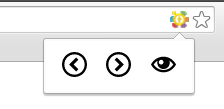
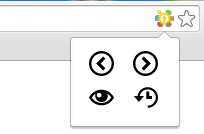
feat(fulltime): add new 'fulltime' feature
New magical button

diff --git a/action/fullTime.js b/action/fullTime.js
@@ -1,0 +1,119 @@
+(function () {
+    'use strict';
+
+    /**
+     * Change the visibility and fix the value of the element 'input'
+     *
+     * @param {Object} input HTML element 'input'
+     */
+    function fixValue(input) {
+        // if the visibility of the input does need to be modified
+        if (input.disabled || input.readOnly || input.style.border) {
+            input.disabled = false;
+            input.readOnly = false;
+            input.removeAttribute('style');
+        }
+        // if the visibility of the input does not need to be modified
+        else if (!input.classList.contains('already-enabled')) {
+            input.classList.add('already-enabled');
+        }
+        input.classList.add('fix-field');
+        input.value = 100;
+    }
+
+    /**
+     * Reset element 'input' value and state
+     *
+     * @param {Object} input HTML element 'input'
+     */
+    function resetValue(input) {
+        // if the field is visible
+        if (!input.readOnly) {
+            // if the visibility of the input has not been modified or if the input does need to be modified
+            if (input.classList.contains('fix-field') && !input.classList.contains('already-enabled')) {
+                input.readOnly = true;
+                input.disabled = true;
+                input.style.display = 'none';
+            }
+            input.value = null;
+        }
+    }
+
+    /**
+     * Apply callback on each element 'input' of the line
+     *
+     * @param {Object}   cell     Cell HTML element
+     * @param {Function} callback Action call on each element 'input'
+     */
+    function action(cell, callback) {
+        // find line
+        var line = cell.parentNode.parentNode.parentNode.parentNode.parentNode;
+
+        // find all input type 'text' in the line
+        var inputs = line.querySelectorAll('input[type="text"]');
+
+        // apply change
+        for (var i = 0; i < 5; i++) {
+            callback(inputs[i]);
+        }
+    }
+
+    /**
+     * Create and append button to the cell
+     *
+     * @param {Object}   cell     Cell HTML element
+     * @param {String}   btnClass Class to add on the button
+     * @param {String}   btnText  Text to add to the button
+     * @param {Function} callback Action call on each element 'input' relate of the button action
+     */
+    function appendActionButton(cell, btnClass, btnText, callback) {
+
+        // create 'fulltime' button
+        var btn = document.createElement('button');
+        btn.classList.add(btnClass);
+        btn.innerText = btnText;
+
+        // add 'fulltime' button event
+        btn.addEventListener('click', function () {
+            action(cell, callback);
+        }, true);
+
+        // append 'fulltime' button
+        cell.appendChild(btn);
+    }
+
+    /**
+     * Build actions buttons
+     *
+     * @param {Object} rootElement Significative HTML element (td)
+     */
+    function buildActionsButtons(rootElement) {
+
+        // extract row
+        var row = rootElement.parentNode;
+
+        // try to find 'fulltime' button
+        var cell = row.querySelector('.fulltime-zone');
+        if (!cell) {
+
+            // create cell
+            cell = document.createElement('td');
+            cell.classList.add('fulltime-zone');
+
+            // append cell to row
+            row.insertBefore(cell, row.lastChild);
+
+            // append 'full time' button
+            appendActionButton(cell, 'btn-fulltime', '100', fixValue);
+
+            // append 'full time reset' button
+            appendActionButton(cell, 'btn-fulltime-reset', 'reset', resetValue);
+        }
+    }
+
+    /**
+     * Find significative HTML element and build action buttons
+     */
+    Array.prototype.forEach.call(document.querySelectorAll('#sactScrollTblBody>tbody>tr>td:nth-child(2)>table>tbody>tr>td:nth-child(5)'), buildActionsButtons);
+
+})();

diff --git a/menu-bar/popup.html b/menu-bar/popup.html
@@ -26,6 +26,12 @@
                 <use xlink:href="#icon-eye"></use>
             </svg>
         </button>
+        <button id="zenhacker-kelio-fulltime" class="btn" title="Full time">
+            <!-- Show all -->
+            <svg class="icon icon-history" width="25" height="25">
+                <use xlink:href="#icon-history"></use>
+            </svg>
+        </button>
     </div>
 
     <script src="popup.js"></script>
@@ -46,6 +52,10 @@
                 <title>circle-left</title>
                 <path class="path1" d="M512 1024c282.77 0 512-229.23 512-512s-229.23-512-512-512-512 229.23-512 512 229.23 512 512 512zM512 96c229.75 0 416 186.25 416 416s-186.25 416-416 416-416-186.25-416-416 186.25-416 416-416z"></path>
                 <path class="path2" d="M669.256 317.256l-90.512-90.512-285.254 285.256 285.256 285.254 90.508-90.508-194.744-194.746z"></path>
+            </symbol>
+            <symbol id="icon-history" viewBox="0 0 1088 1024">
+                <title>history</title>
+                <path class="path1" d="M640 64c247.424 0 448 200.576 448 448s-200.576 448-448 448v-96c94.024 0 182.418-36.614 248.902-103.098s103.098-154.878 103.098-248.902c0-94.022-36.614-182.418-103.098-248.902s-154.878-103.098-248.902-103.098c-94.022 0-182.418 36.614-248.902 103.098-51.14 51.138-84.582 115.246-97.306 184.902h186.208l-224 256-224-256h164.57c31.060-217.102 217.738-384 443.43-384zM832 448v128h-256v-320h128v192z"></path>
             </symbol>
         </defs>
     </svg>

diff --git a/menu-bar/popup.js b/menu-bar/popup.js
@@ -28,4 +28,7 @@
     // Action 'PrevWeek'
     registerAction('zenhacker-kelio-prev-week', 'action/prevWeek.js');
 
+    // Action 'FullTime'
+    registerAction('zenhacker-kelio-fulltime', 'action/fullTime.js');
+
 })();

diff --git a/action/showAll.js b/action/showAll.js
@@ -7,6 +7,7 @@
         input.readOnly = false;
         input.disabled = false;
         input.removeAttribute('style');
+        input.classList.remove('fix-field');
     });
 
 })();

diff --git a/menu-bar/popup.css b/menu-bar/popup.css
@@ -8,5 +8,6 @@
 }
 
 .icons-bar {
-    width: 130px;
+    width: 86px;
+/*    width: 175px;*/
 }

diff --git a/readme.md b/readme.md
@@ -10,6 +10,10 @@ Hack de Kelio pour faire de la saisie en avance de phase.
 
 - Ajoute la fonction "Semaine suivante"
 - Rend visible les champs de saisie cachés.
+- Rend visible les champs du lundi au vendredi et les met automantiquement à 100
+- Supprime tous les temps saisies du lundi au vendredi pour une affectation
+
+![](help02.png)
 
 ## Installation ##
 
